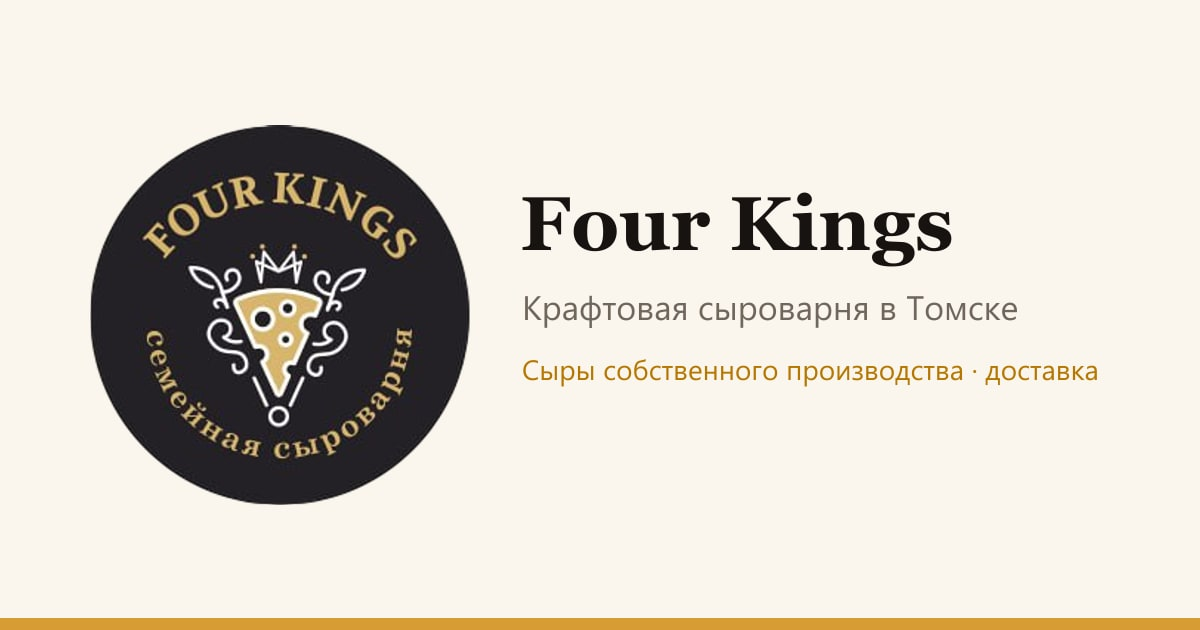
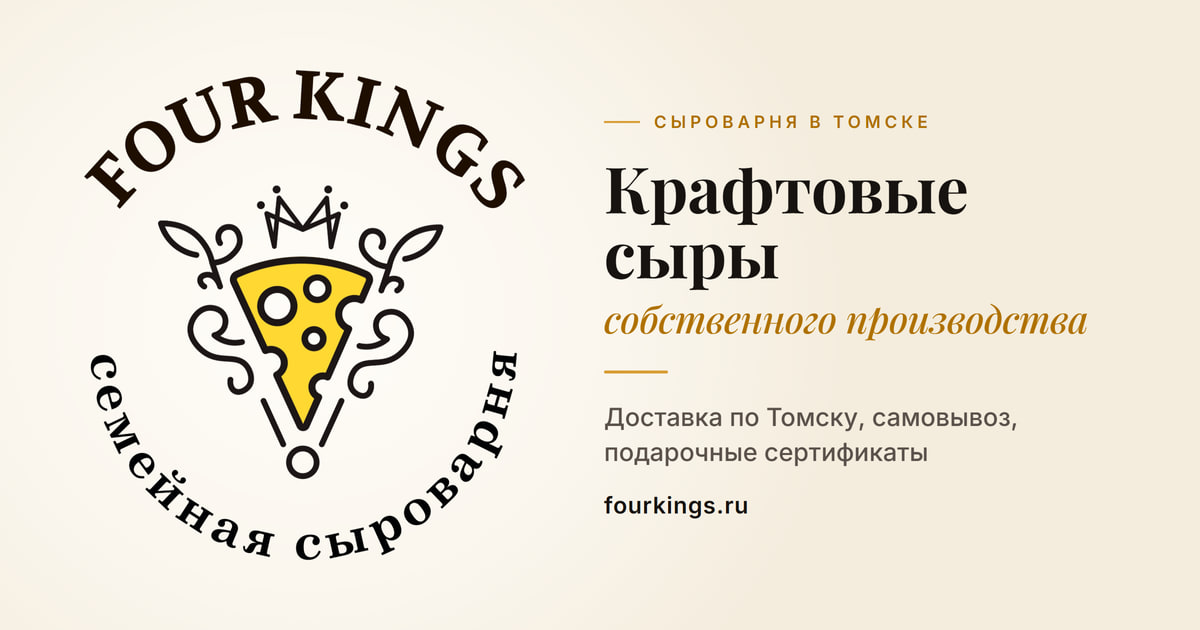
Превью для соцсетей: новая картинка с круглым логотипом
public/og-image.jpg перерисована: светлый круглый логотип, шрифты сайта (Playfair Display + Inter),
фирменные цвета. Логотип и текст укладываются в обрезку ВКонтакте (2,24:1).
Исходник макета и логотипа — design/og-image/ (на сервер не нужен), там же команда перерисовки.

diff --git a/design/og-image/og-image.html b/design/og-image/og-image.html
@@ -1,0 +1,46 @@
+<!doctype html>
+<!--
+  Картинка-превью для соцсетей и мессенджеров: public/og-image.jpg (1200×630).
+  Шрифты и цвета — как на сайте (Playfair Display + Inter, токены из app/globals.css).
+  Логотип и важный текст держим в полосе y 47…583: ВКонтакте обрезает превью до 2,24:1.
+
+  Перерисовать (Windows, Git Bash, из корня проекта; нужен интернет для шрифтов Google):
+    D="$(pwd -W)/design/og-image"
+    "/c/Program Files/Google/Chrome/Application/chrome.exe" --headless=new --hide-scrollbars \
+      --user-data-dir="$TEMP/og-chrome" --force-device-scale-factor=2 --window-size=1200,630 \
+      --virtual-time-budget=10000 --screenshot="$TEMP/og@2x.png" "file:///$D/og-image.html"
+    node -e "require('sharp')(process.env.TEMP+'/og@2x.png').resize(1200,630,{kernel:'lanczos3'})
+      .jpeg({quality:88,mozjpeg:true,chromaSubsampling:'4:4:4'}).toFile('public/og-image.jpg')"
+-->
+<html lang="ru"><head><meta charset="utf-8">
+<link href="https://fonts.googleapis.com/css2?family=Inter:wght@500;600&family=Playfair+Display:ital,wght@0,700;1,500&display=block" rel="stylesheet">
+<style>
+:root{
+  --cream:oklch(0.974 0.012 85); --cream-deep:oklch(0.945 0.022 85);
+  --gold:oklch(0.735 0.135 78); --gold-deep:oklch(0.600 0.130 72);
+  --charcoal:oklch(0.190 0.008 60); --mute:oklch(0.440 0.015 60);
+}
+*{box-sizing:border-box}
+html,body{margin:0;width:1200px;height:630px;overflow:hidden}
+body{position:relative;color:var(--charcoal);font-family:Inter,sans-serif;-webkit-font-smoothing:antialiased;
+  background:radial-gradient(ellipse 560px 520px at 304px 315px, oklch(0.993 0.006 85) 0%, var(--cream) 55%, var(--cream-deep) 100%)}
+/* logo-round.webp: сверху 66 px прозрачного поля, рисунок 1740×1934 → показываем рисунок высотой 490 с y=70 */
+.logo{position:absolute;left:84px;top:53.3px;height:506.7px}
+.text{position:absolute;left:604px;top:0;bottom:0;width:516px;display:flex;flex-direction:column;justify-content:center}
+.eyebrow{font:600 17px/1 Inter;letter-spacing:.24em;text-transform:uppercase;color:var(--gold-deep);margin-bottom:24px;display:flex;align-items:center;gap:14px}
+.eyebrow::before{content:"";width:36px;height:2px;background:var(--gold)}
+h1{font:700 64px/1.02 'Playfair Display',serif;margin:0;letter-spacing:-.005em}
+h1 em{display:block;font:italic 500 38px/1.2 'Playfair Display',serif;color:var(--gold-deep);margin-top:10px}
+.rule{width:64px;height:3px;background:var(--gold);margin:30px 0 26px;border-radius:2px}
+p{font:500 25px/1.4 Inter;color:var(--mute);margin:0}
+.url{margin-top:24px;font:600 23px/1 Inter;letter-spacing:.03em}
+</style></head><body>
+<img class="logo" src="logo-round.webp" alt="">
+<div class="text">
+  <div class="eyebrow">Сыроварня в Томске</div>
+  <h1>Крафтовые сыры<em>собственного производства</em></h1>
+  <div class="rule"></div>
+  <p>Доставка по Томску, самовывоз,<br>подарочные сертификаты</p>
+  <div class="url">fourkings.ru</div>
+</div>
+</body></html>
